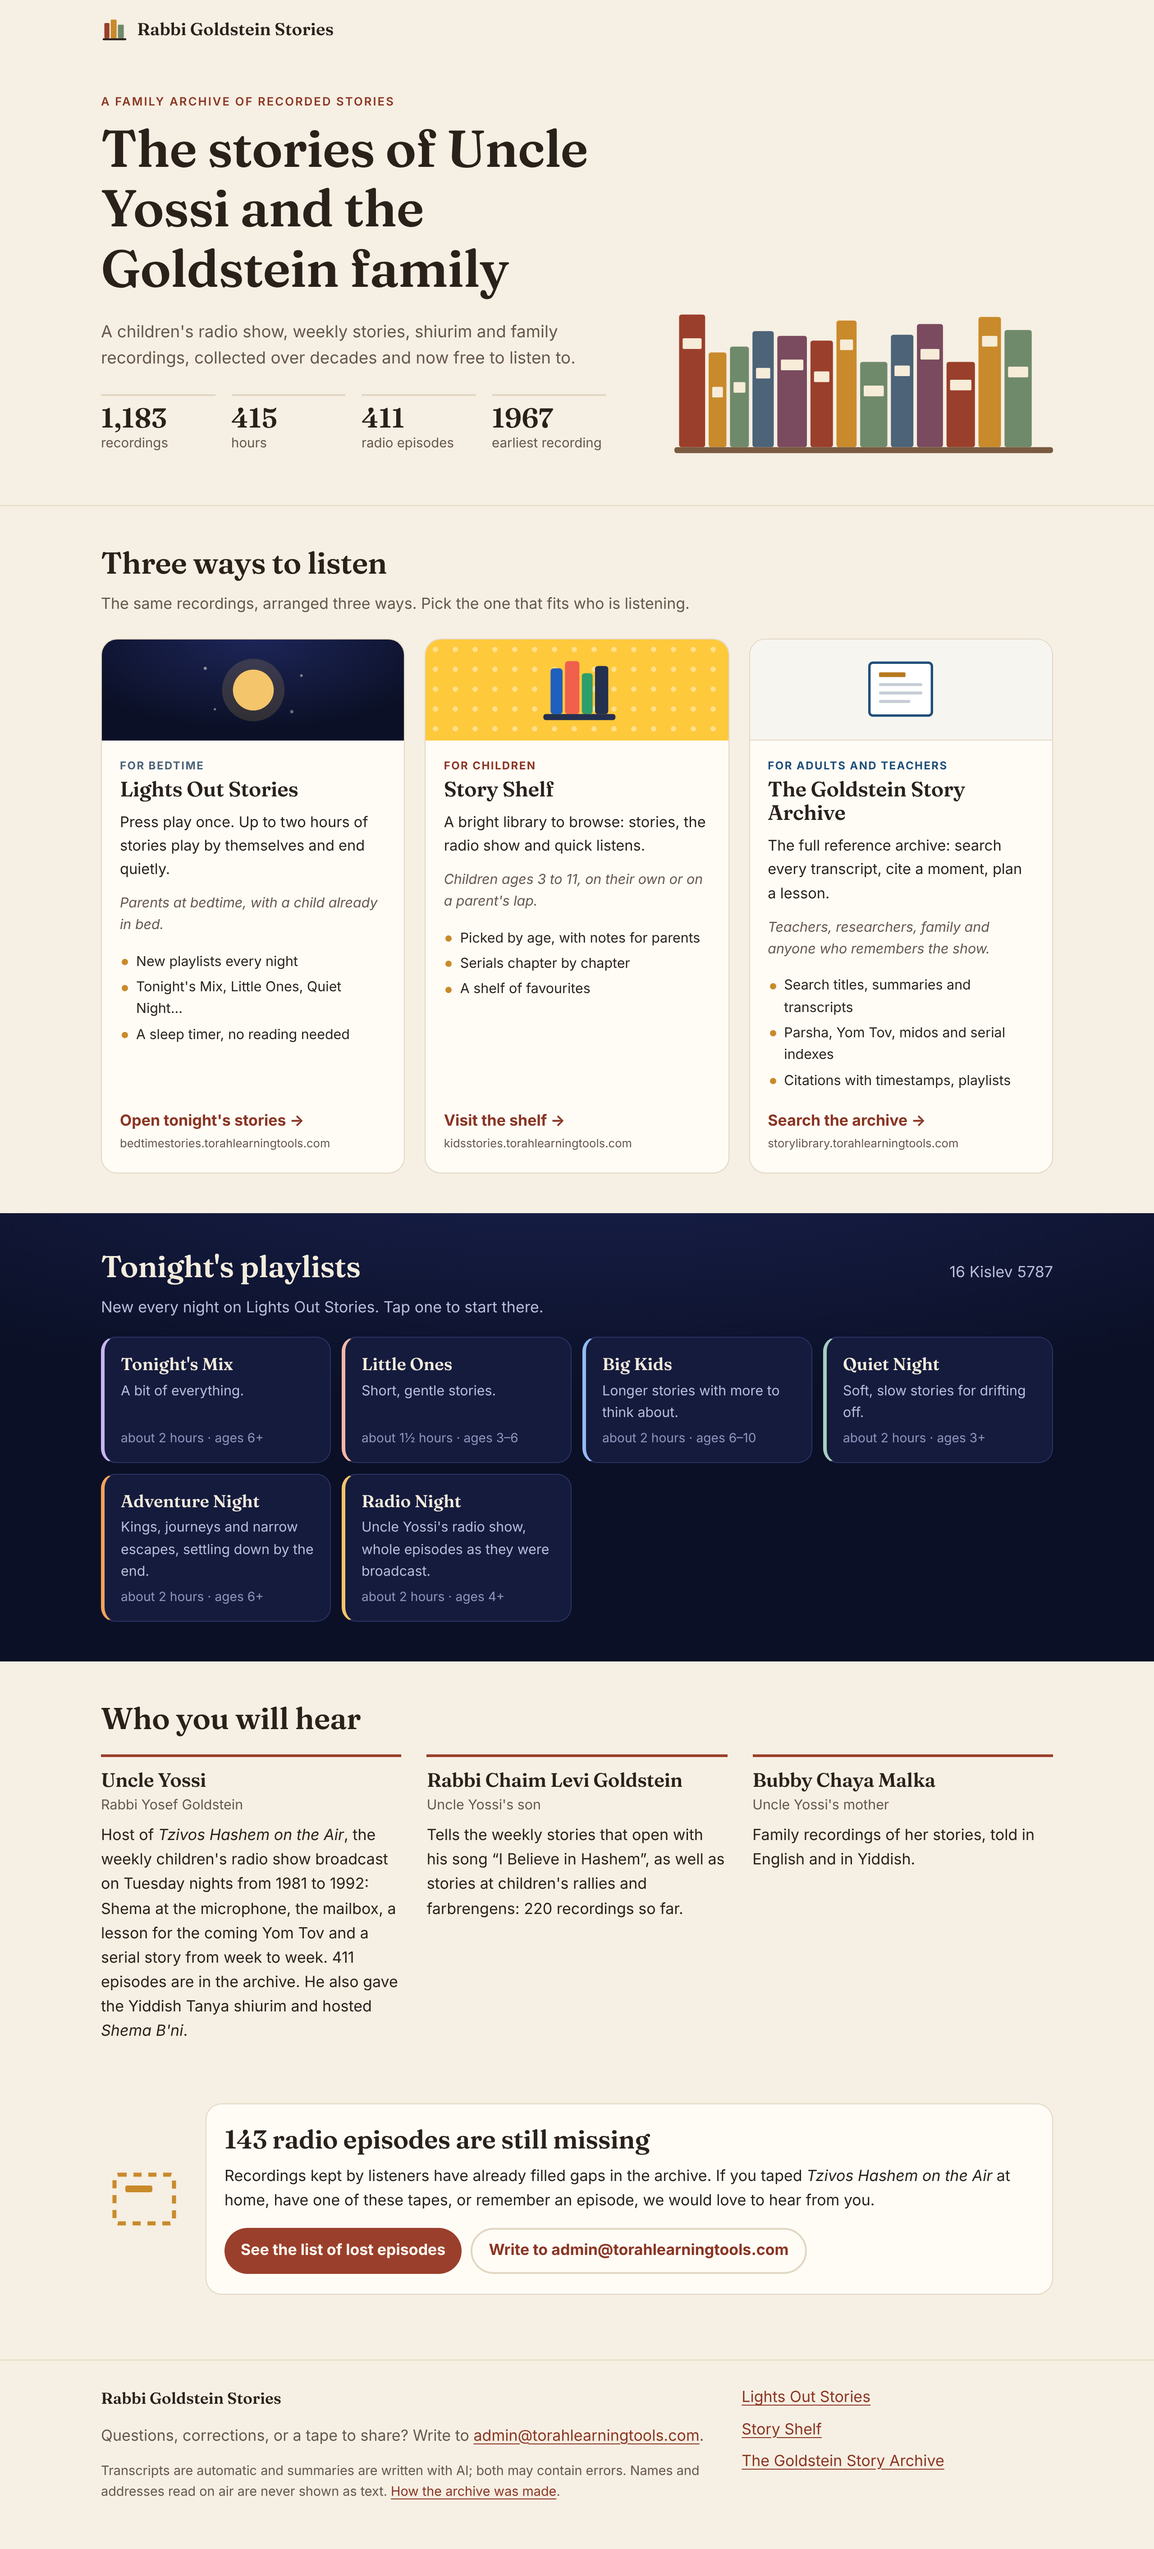
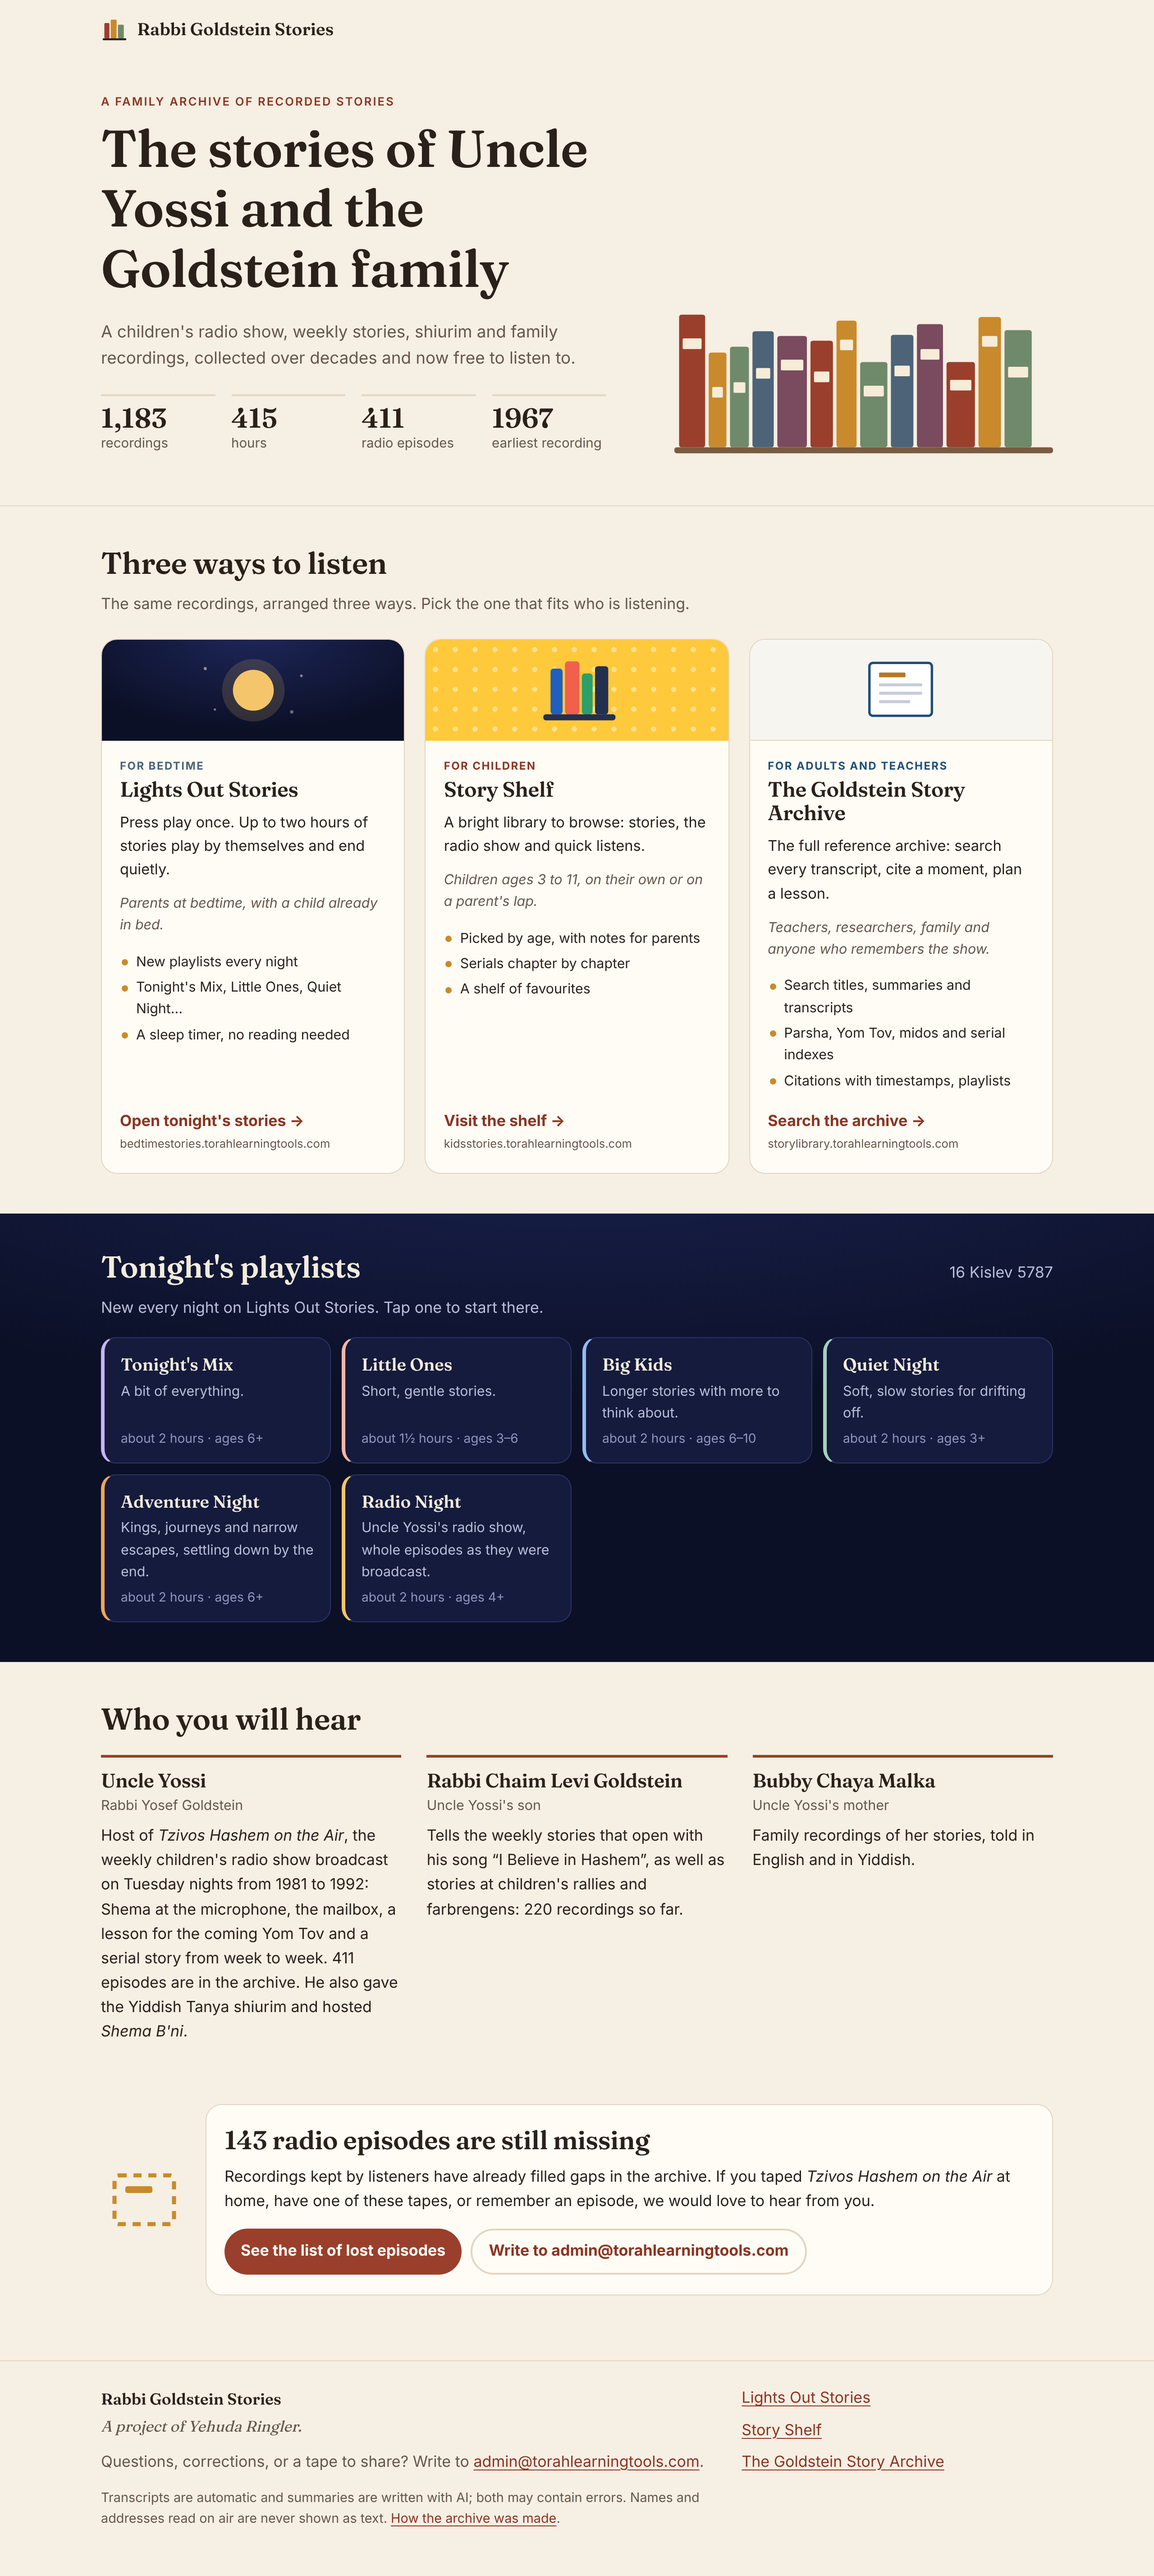
home: show PROJECT_CREDIT in the footer
Claude-Session: https://claude.ai/code/session_015b1FseWTHKMfsXVHgnabXQ

diff --git a/apps/home/test/home.test.ts b/apps/home/test/home.test.ts
@@ -1,7 +1,7 @@
 import { readFileSync } from "node:fs";
 import { join } from "node:path";
 import { describe, expect, it } from "vitest";
-import { CONTACT_EMAIL, SITES, siteUrl } from "@goldstein/config/sites";
+import { CONTACT_EMAIL, PROJECT_CREDIT, SITES, siteUrl } from "@goldstein/config/sites";
 import { loadCatalog, loadLostEpisodes, loadManifest, loadVocab } from "@goldstein/data/load";
 import type { Edition, Playlist } from "@goldstein/playlists";
 import { lostEpisodesUrl, siteCards } from "../src/lib/sites.ts";
@@ -66,6 +66,12 @@ describe("site links come from the shared site table", () => {
   it("the home site is in the table and hosts have no dashes", () => {
     expect(SITES.home.host).toBe("goldsteinstories.torahlearningtools.com");
     for (const s of Object.values(SITES)) expect(s.host.split(".")[0]).not.toContain("-");
+  });
+
+  it("the footer carries the project credit from the shared config", () => {
+    const layout = src("layouts/Base.astro");
+    expect(layout).toContain("{PROJECT_CREDIT}");
+    expect(layout).not.toContain(PROJECT_CREDIT);
   });
 
   it("pages don't hardcode site hosts or the contact address", () => {

diff --git a/apps/home/src/styles/global.css b/apps/home/src/styles/global.css
@@ -665,6 +665,13 @@ a:hover {
   font-family: var(--serif);
   font-weight: 600;
   font-size: 1.1rem;
+  margin-bottom: 0.1em;
+}
+
+.credit {
+  font-family: var(--serif);
+  font-style: italic;
+  color: var(--muted);
 }
 
 .footer-nav ul {

diff --git a/docs/ARCHITECTURE.md b/docs/ARCHITECTURE.md
@@ -264,7 +264,7 @@ From a clean `npm ci`: install 7 s, typecheck 18 s, tests 34 s, build 28 s. `nod
 3. Add the site to `SITES` (the site-table test then checks its `wrangler.jsonc`), the root `workspaces`, the deploy workflow (plan outputs and loops, the gate's dir list, a deploy step) and the gate list in `ci.yml`.
 
 **The landing page** (`apps/home`, `@goldstein/home`, Worker `goldstein-home`, `goldsteinstories.torahlearningtools.com`): one static page that introduces the archive and links to the three sites.
-- Numbers (recordings, hours, radio episodes, lost episodes, earliest year) are computed at build time from `@goldstein/data/load` (`src/lib/stats.ts`); site names and links come from `SITES` (`src/lib/sites.ts`); the contact address is `CONTACT_EMAIL`.
+- Numbers (recordings, hours, radio episodes, lost episodes, earliest year) are computed at build time from `@goldstein/data/load` (`src/lib/stats.ts`); site names and links come from `SITES` (`src/lib/sites.ts`); the contact address is `CONTACT_EMAIL` and the footer carries `PROJECT_CREDIT`.
 - People and series named in its prose are checked against the public vocabulary at build time: an unconfirmed entry fails the build (`assertConfirmed`).
 - Its only script is the "Tonight's playlists" strip (`src/lib/tonight.ts`): it reads `/playlists/` on its own host, puts Tonight's Mix first and links each playlist to the bedtime deep link `/p/<edition>/<type>/`. It ships `hidden` and stays hidden if the API is unavailable.
 - Light and dark follow `prefers-color-scheme`; no theme toggle (that would need script). Artwork is shapes only (tape-box spines, a full moon, book spines, an index card), per the artwork rules in DECISIONS.
